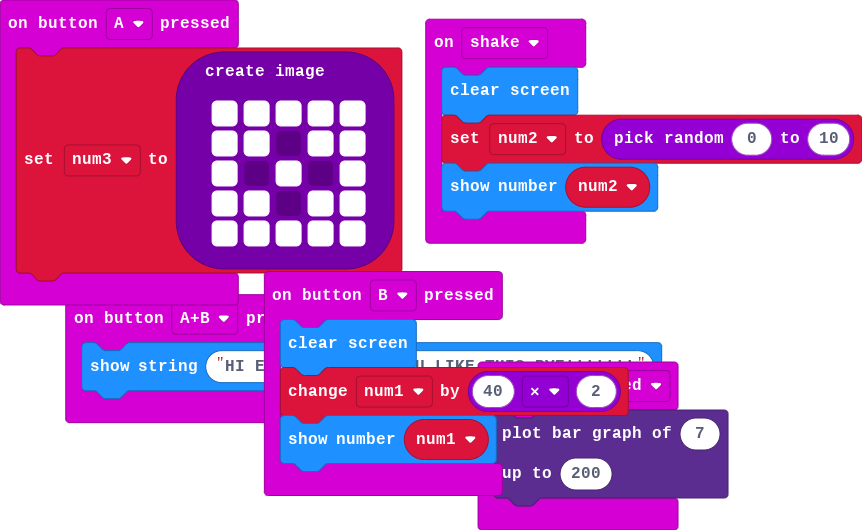
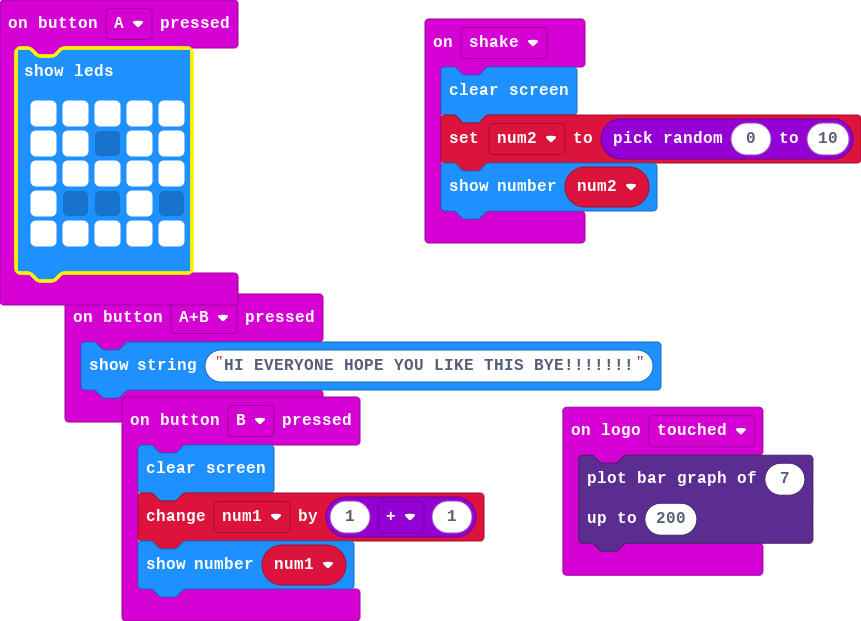
Update main.blocks, main.ts

diff --git a/main.ts b/main.ts
@@ -1,12 +1,11 @@
-let num3: Image = null
 let num1 = 0
 let num2 = 0
 input.onButtonPressed(Button.A, function () {
-    num3 = images.createImage(`
+    basic.showLeds(`
         # # # # #
         # # . # #
-        # . # . #
-        # # . # #
+        # # # # #
+        # . . # .
         # # # # #
         `)
 })
@@ -15,7 +14,7 @@ input.onButtonPressed(Button.AB, function () {
 })
 input.onButtonPressed(Button.B, function () {
     basic.clearScreen()
-    num1 += 40 * 2
+    num1 += 1 + 1
     basic.showNumber(num1)
 })
 input.onGesture(Gesture.Shake, function () {
